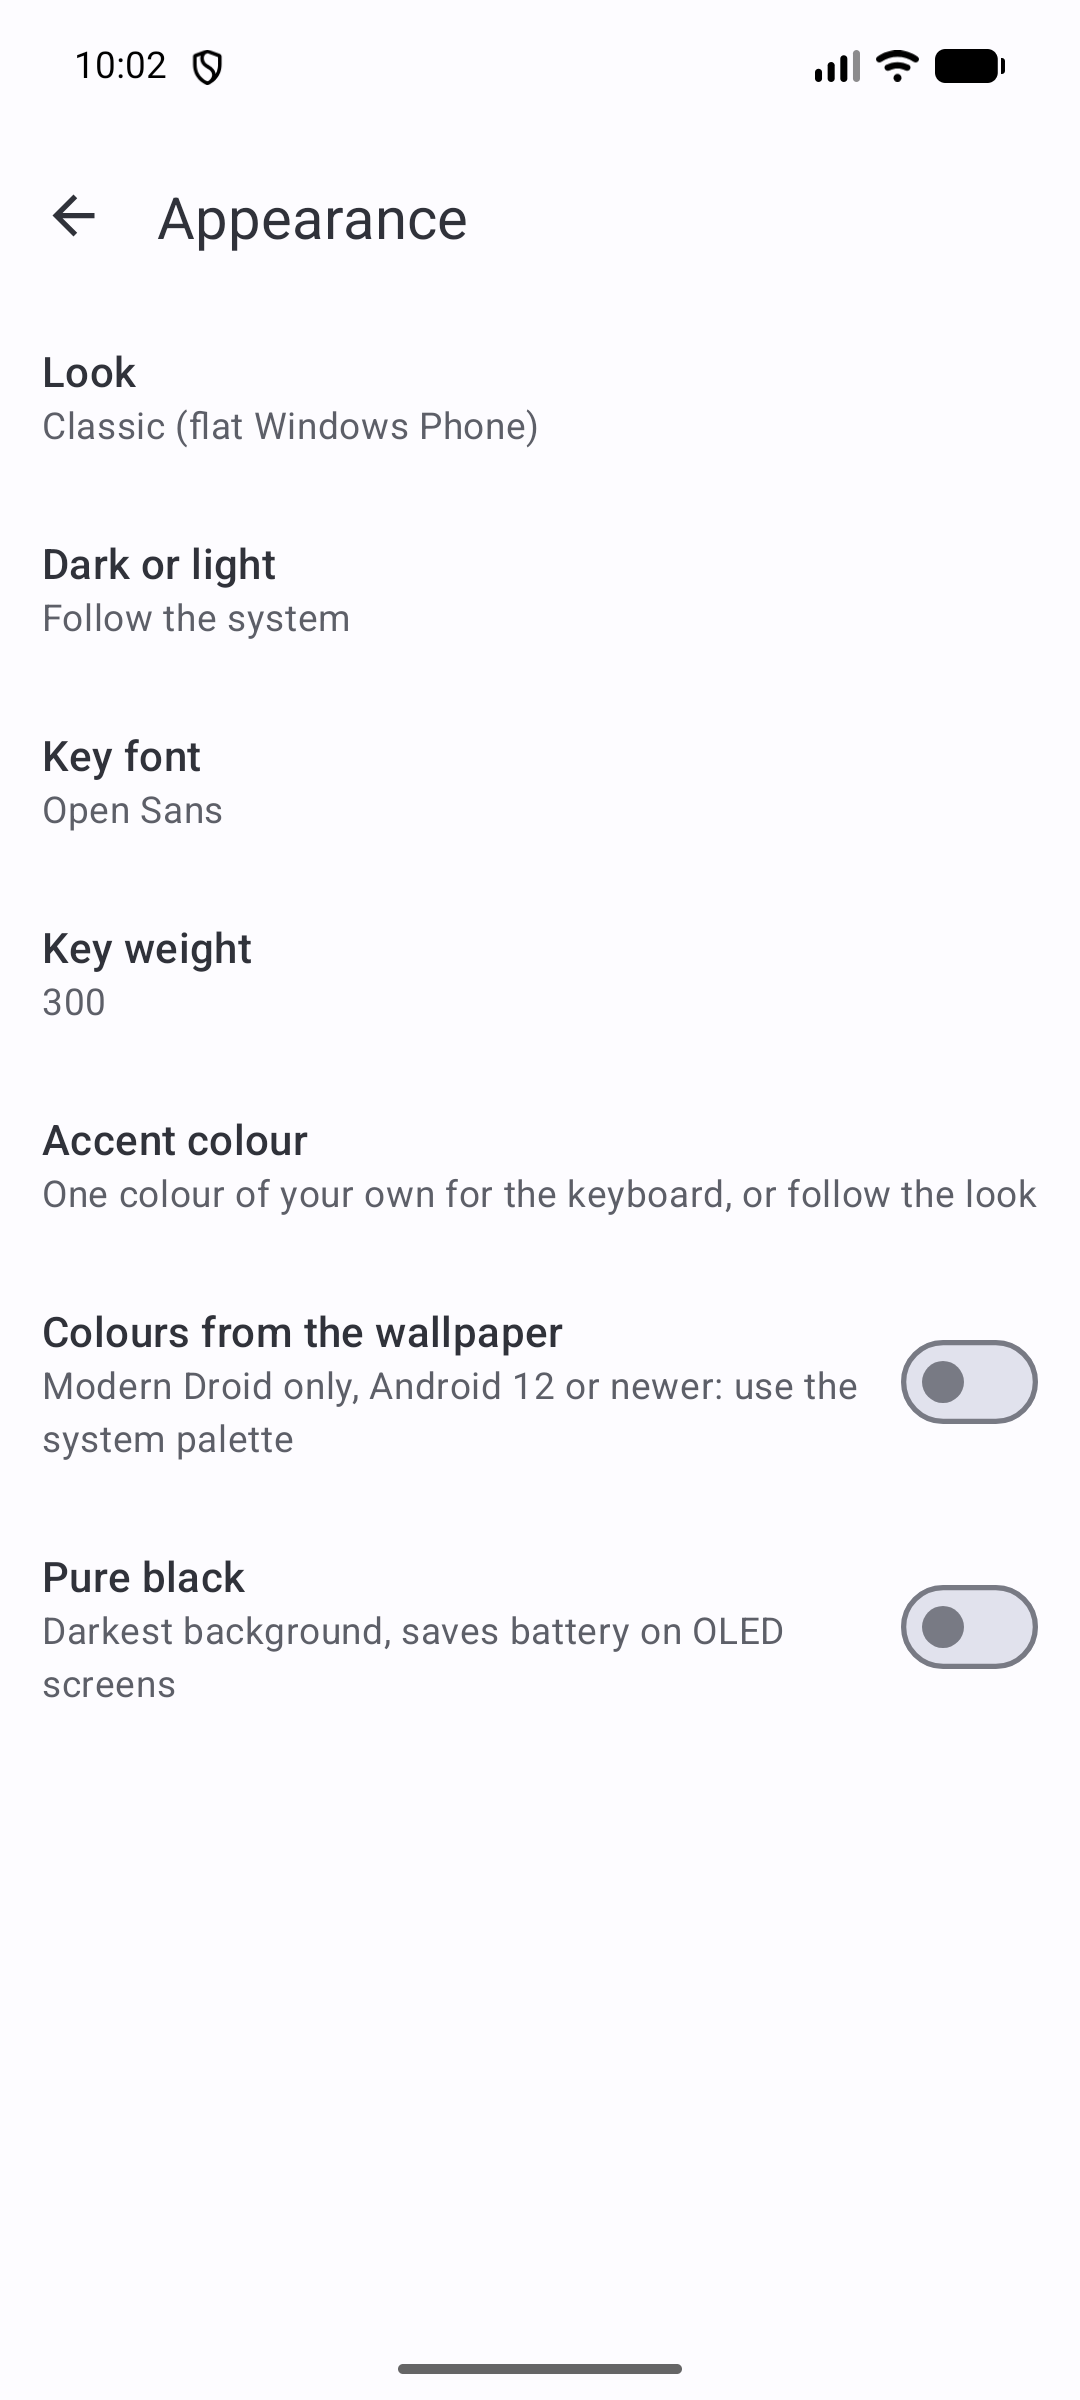
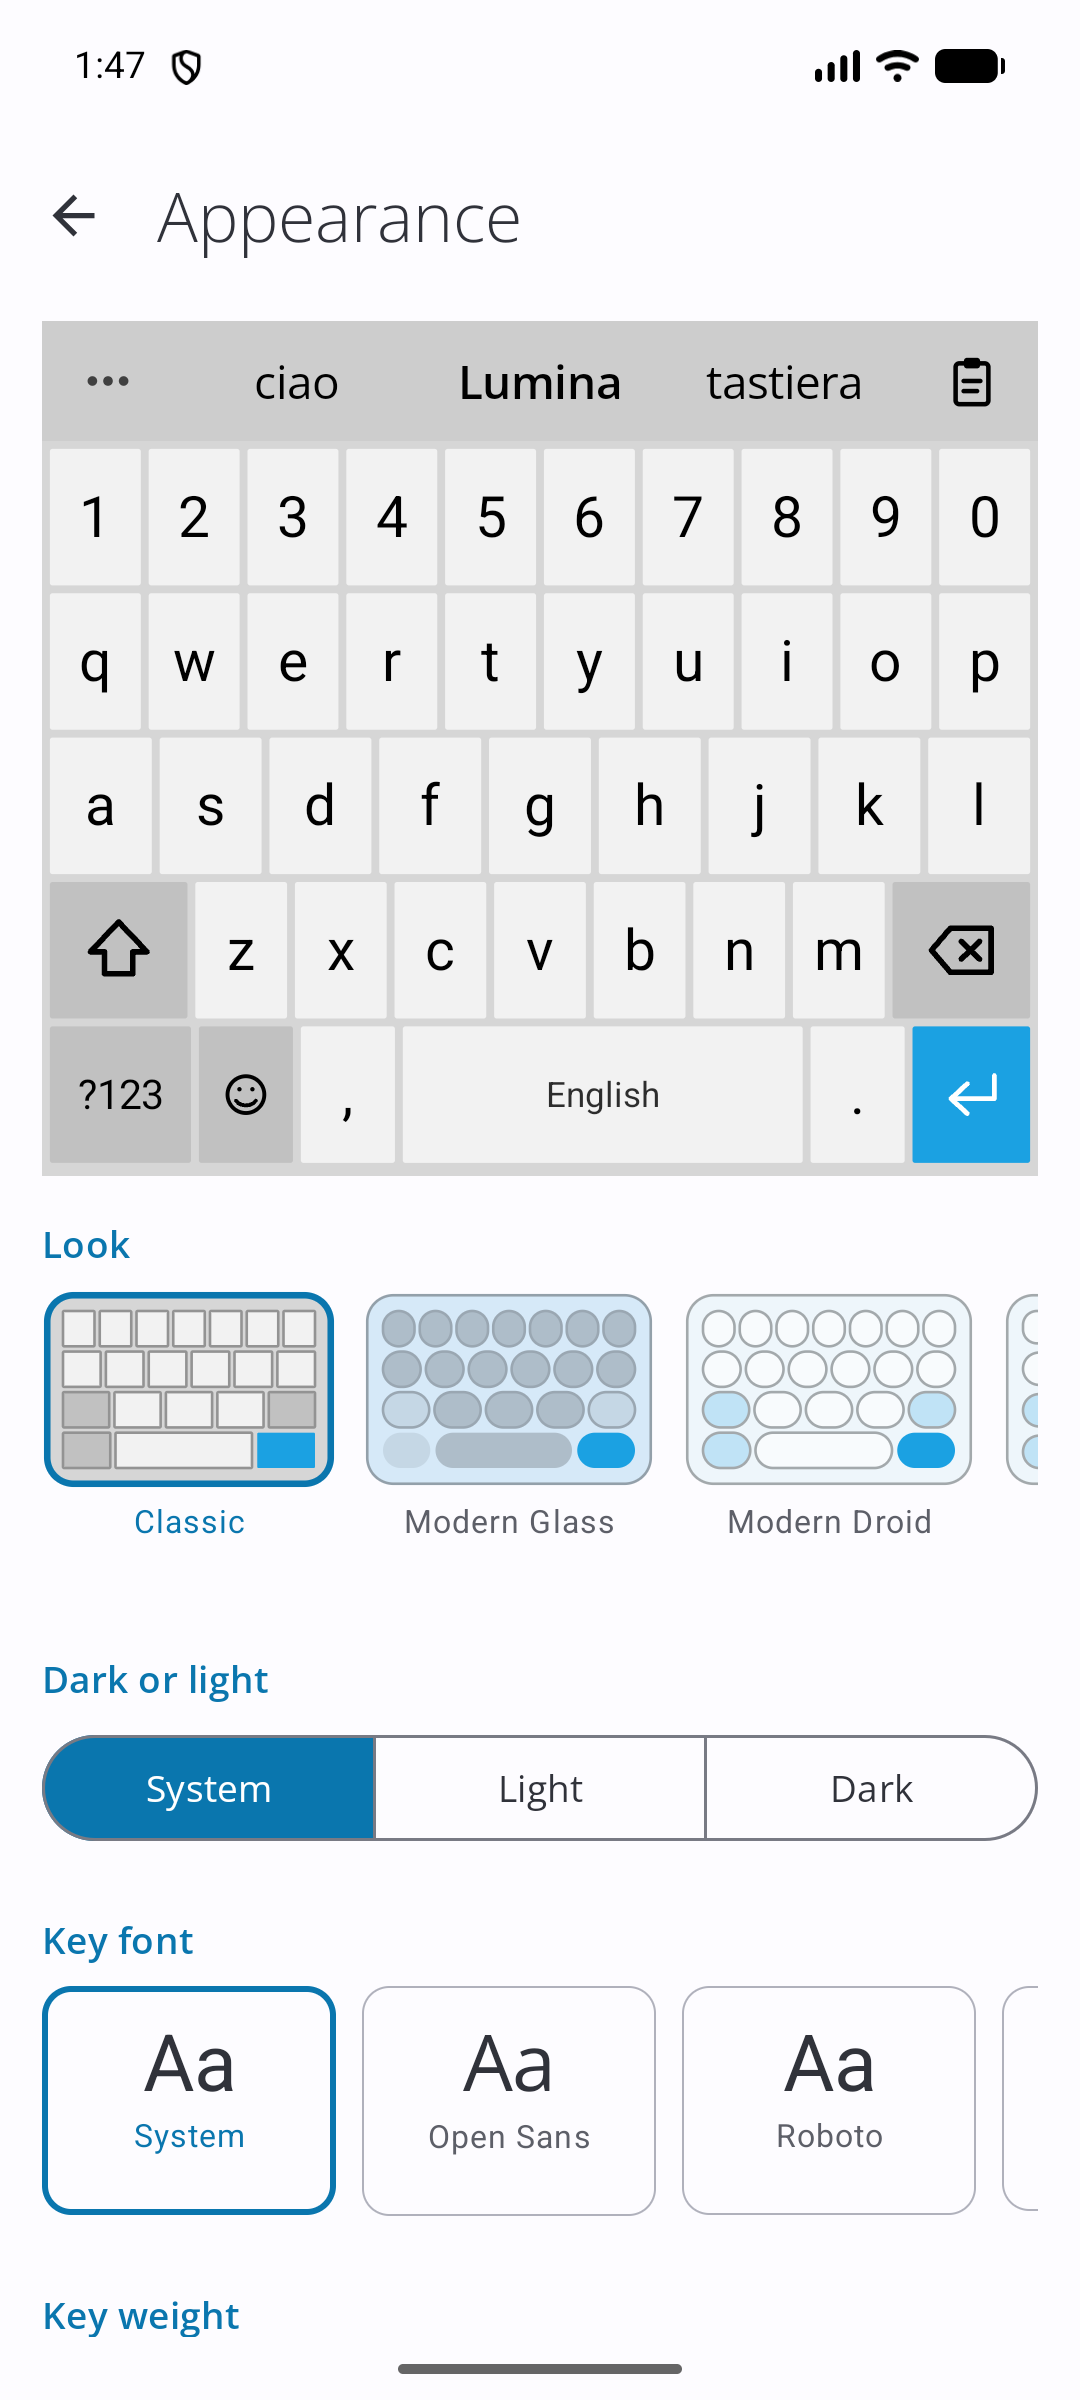
README: current screenshots of the app and the seven looks, text matching the new settings

diff --git a/README.md b/README.md
@@ -18,7 +18,7 @@
   <img src="docs/screenshots/home.png" width="22%" alt="The home page with the calibration card">
   <img src="docs/screenshots/typing.png" width="22%" alt="The keyboard, in the Classic look">
   <img src="docs/screenshots/calibration.png" width="22%" alt="The calibration">
-  <img src="docs/screenshots/appearance.png" width="22%" alt="Appearance: look, font, weight and colour">
+  <img src="docs/screenshots/appearance.png" width="22%" alt="Appearance: look, dark or light, font, weight and accent colour">
 </p>
 
 ### The looks
@@ -47,7 +47,7 @@
 Compared with the original MetroWin Keyboard (version 26.1.2S):
 
 **Added**
-- **Key font and weight** (*Settings → Appearance*): the key letters can use the system font, Open Sans, Roboto or Atkinson Hyperlegible, at weights 200, 300, 400 or 500. Only the weights that look different for the chosen font are listed. The fonts are bundled variable fonts under the SIL OFL.
+- **Key font and weight** (*Settings → Appearance*): the key letters can use the system font, Open Sans, Roboto or Atkinson Hyperlegible, at weights 200, 300, 400 or 500, chosen from font tiles that show the font and a slider with a sample sentence. Only the weights that look different for the chosen font get a stop. The fonts are bundled variable fonts under the SIL OFL.
 - **iPhone look**: pale grey (or dark) keyboard, white rounded keys with a thin shadow, darker special keys, "space" and "return" labels, dividers between the suggestions and a white balloon over the pressed key.
 - **Modern Slate look**: dark grey keys with light grey symbols on a light grey surround (a dark one in dark mode), soft shadows and a light blue action key.
 - **Snippets** (*Settings → Snippets*): short words that turn into a phrase you write often. Type `wyd` and a space and it becomes "What do you need from me?". The text is also offered in the middle of the suggestion bar while you type the shortcut, and Backspace right after gives the shortcut back. They stay on the phone and are in the backup.
@@ -55,8 +55,8 @@ Compared with the original MetroWin Keyboard (version 26.1.2S):
 - **A new identity**: application id `com.lumina.keyboard`, so it coexists with the original.
 
 **Changed**
-- **The settings app is Material 3**, not Windows Phone style: a top app bar, a scrolling home with cards and lists, Material 3 type, buttons and switches, and the wallpaper colours (Material You) on Android 12+. The keyboard's own looks, including the Metro ones (Classic and Glass), are untouched.
-- **Accent colour**: the 20 Windows Phone colours are gone; you get Material You (Modern Droid follows the wallpaper) and one custom colour. Classic keeps its cyan by default.
+- **The settings app is Material 3 with a Metro touch**: Material 3 controls and behaviour, set in Open Sans Light with cyan headings, a flat cyan calibration tile on the home page, and every appearance setting shown as the thing itself (a keyboard for each look, a specimen for each font, a sample for the weight, a swatch for each colour). The keyboard's own looks, including the Metro ones (Classic and Glass), are untouched.
+- **Accent colour**: the 20 Windows Phone colours are gone. You choose "follow the look", one of six colours (cyan, blue, green, orange, red, magenta), your own `#RRGGBB`, or, on Modern Droid with Android 12+, the wallpaper's colour. Classic keeps its cyan by default.
 - The globe key is **hidden by default** (*Settings → Size and layout → Show the globe key* brings it back).
 - Release signing is read from `keystore.properties`; [`keystore.properties.example`](keystore.properties.example) shows the values to fill in.
 
